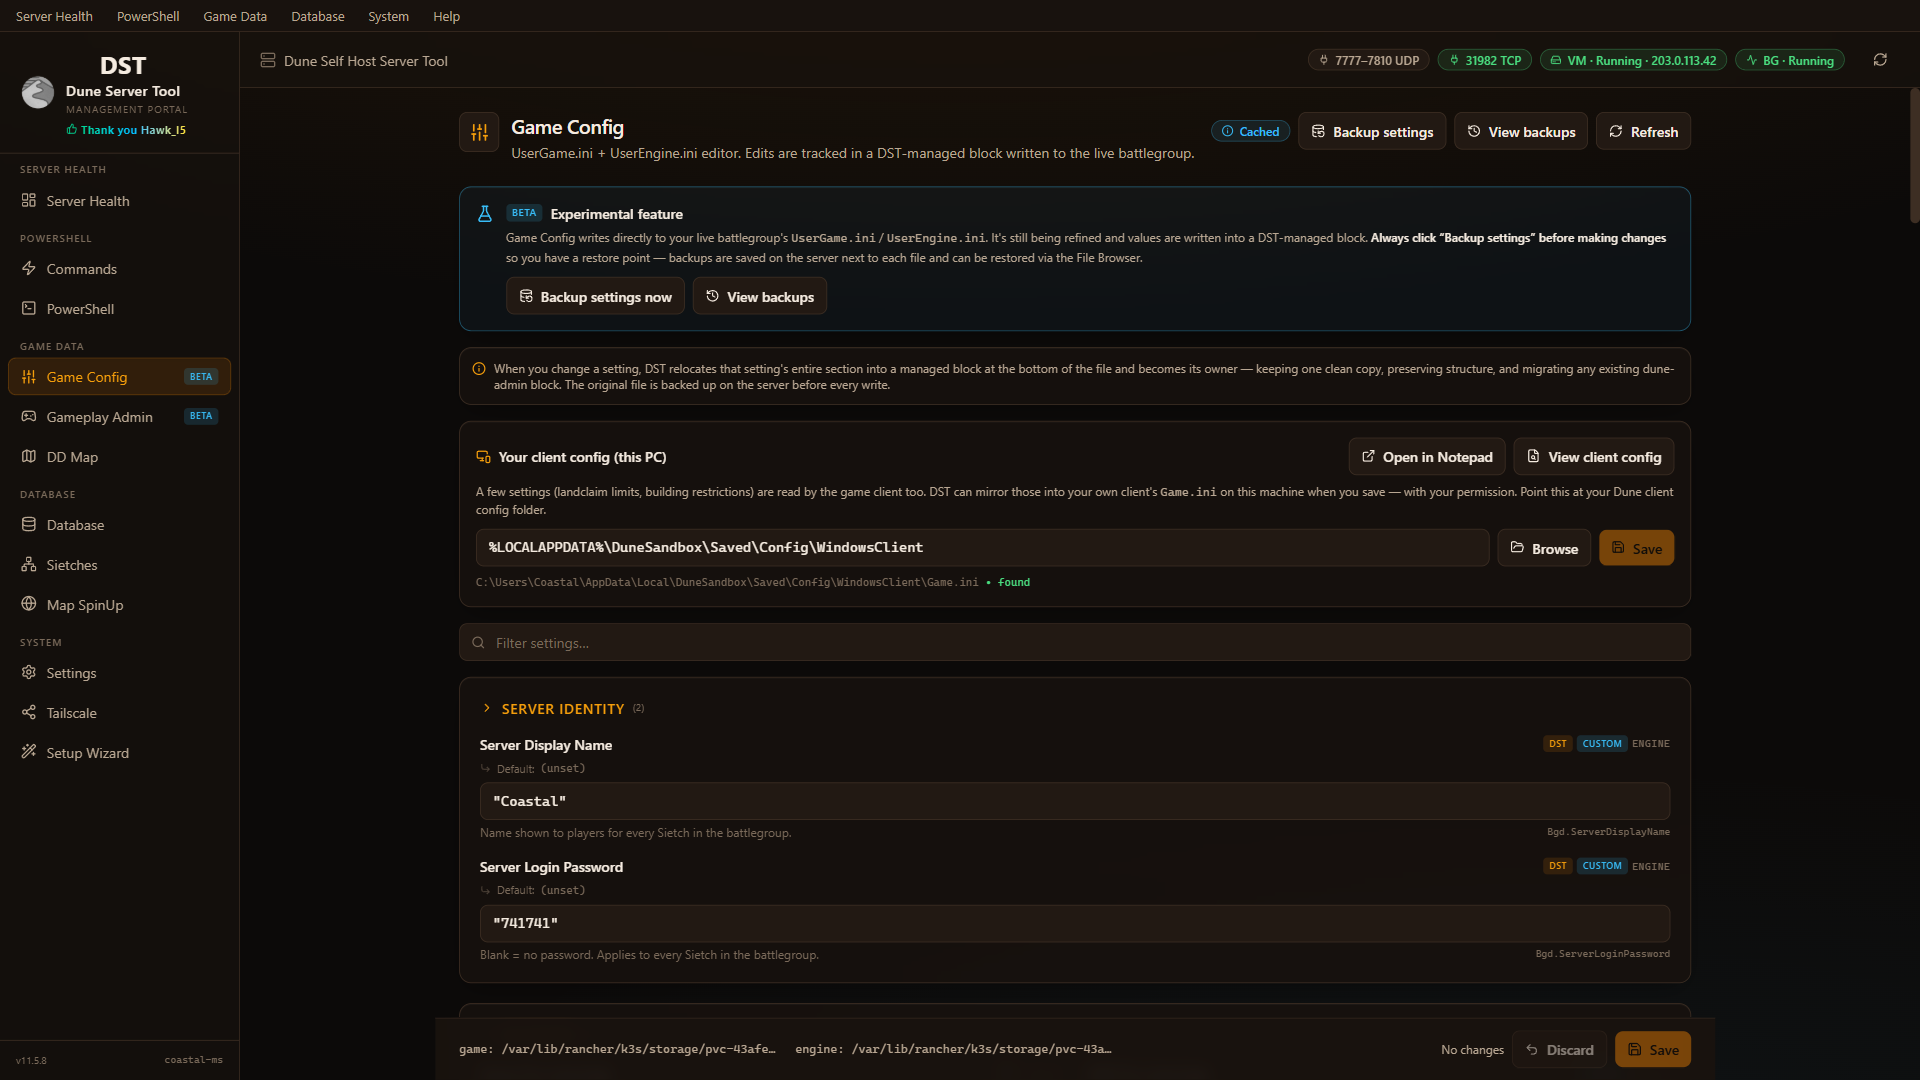
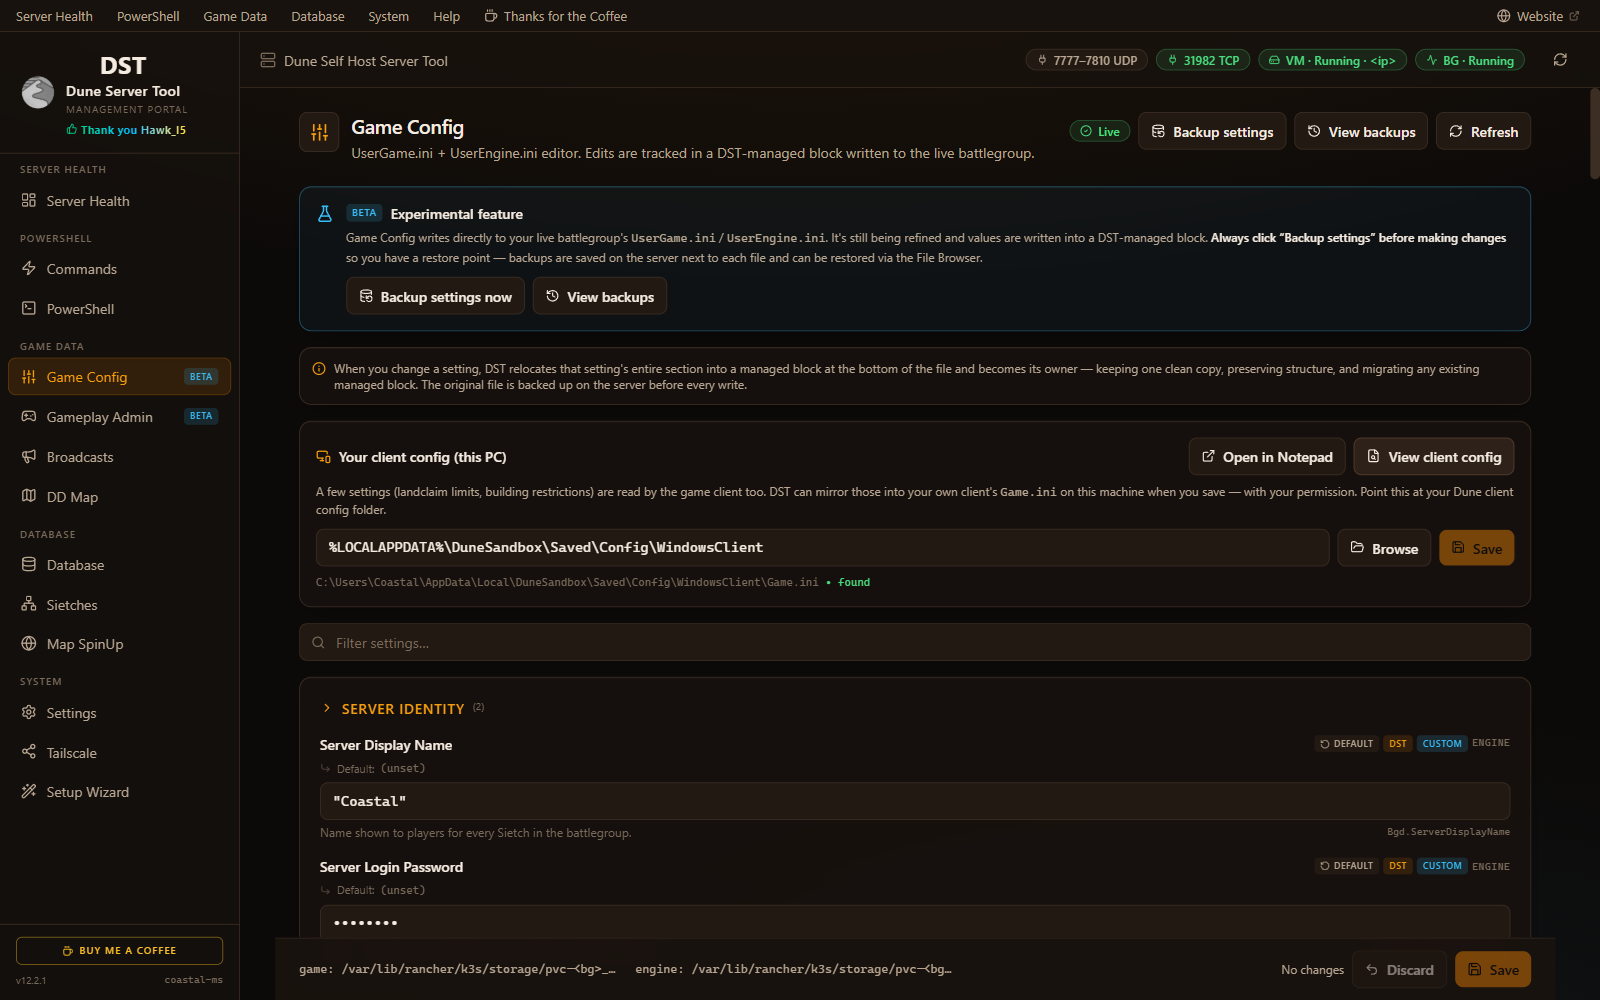
docs: v12.2.1 README + marketing screenshots (#229)
Document the v12.2.1 features on the README and Astro marketing site, with
fresh PII-safe portal screenshots (IP + battlegroup IDs masked; player names
shown intentionally):

- New "New in v12.2.1" README section: corrected Give Vehicle Kit parts +
  per-part quantities, "Allow overflow (drop to ground)" toggle, Cheat Scripts
  panel, and the Landsraad struct-seeding fix + client incomplete-block warning.
- features.astro: refreshed Give Vehicle Kit copy and added Cheat Scripts and
  Players -> Landsraad sections.
- Screenshots: new gameplay-cheat-scripts.png and gameplay-landsraad.png;
  refreshed game-config.png (server login password masked) and give-vehicle-kit.png
  (Tread x3 + overflow toggle).

Coffee menu intentionally omitted from docs.

diff --git a/README.md b/README.md
@@ -31,6 +31,44 @@ browser and keeps the server running in the background.
 
 ![Server Health](docs/img/server-health.png)
 
+### New in v12.2.1
+
+- **Give Vehicle Kit now hands over the correct parts.** The kit contents were
+  fixed so each vehicle actually assembles: **Sandbike** Tread ×3; **Buggy**
+  Tread ×4 plus the Focused Buggy Cutteray Mk6; **Sandcrawler** swaps the base
+  Tread for Dampened Sandcrawler Treads ×2; the **Scout / Assault / Carrier
+  Ornithopters** swap their generic Wing for the named Albatross ×4 / Hummingbird
+  ×6 / Roc ×8 wing modules (Carrier also gains Tail Hull ×2 and Side Hull ×2).
+  The form preview now shows per-part quantities.
+
+  ![Give Vehicle Kit](docs/img/give-vehicle-kit.png)
+
+- **"Allow overflow (drop to ground)" toggle on item & kit gives.** A new
+  checkbox on the Give Item and Give Vehicle Kit forms skips DST's
+  inventory-capacity guard, so a full backpack no longer blocks the give — the
+  game's native command drops whatever doesn't fit on the ground next to the
+  player. Online players only (offline SQL gives can't drop to ground, so the
+  flag is ignored there).
+
+- **Cheat Scripts panel (Players → Live).** One-click buttons fire the named
+  server cheat scripts for an online player — Playtest Setup, Award Player XP,
+  Unlock All Skills / Abilities, Leave Me Alone — plus a freeform box for any
+  other script name. Developer performance harnesses (Start / Stop Hitch Test)
+  sit on a separate **Dev / Perf Scripts** row. Both carry a disclaimer that the
+  scripts originate from the Playtest server and may have no effect on a retail
+  server.
+
+  ![Cheat Scripts panel](docs/img/gameplay-cheat-scripts.png)
+
+- **Landsraad Game Config edits keep the whole settings struct.** Editing a
+  Landsraad value used to seed a minimal `Data=(...)` that dropped the board
+  layouts, messages, and contract settings the game needs. DST now seeds the
+  full default struct first and edits members in place — and *heals* legacy stub
+  boxes written by older builds, restoring the ~35 missing members. Game Config
+  also now **warns when your client's settings block is incomplete** (some
+  members present, some missing) and "Fix my client config" rewrites the whole
+  block.
+
 ### New in v12.2.0
 
 - **Game Config now reads & writes every setting in the right INI section.** A
@@ -46,6 +84,8 @@ browser and keeps the server running in the background.
 - **Players → Landsraad section** — set any player's contribution to any Great
   House (e.g. House Ecaz) to an arbitrary amount; faction + guild totals are
   recomputed automatically.
+
+  ![Players → Landsraad](docs/img/gameplay-landsraad.png)
 - **Per-item water editor** on Players → Inventory for water containers
   (literjons / canteens).
 - **Per-field "Default" button** on every Game Config setting — resetting
